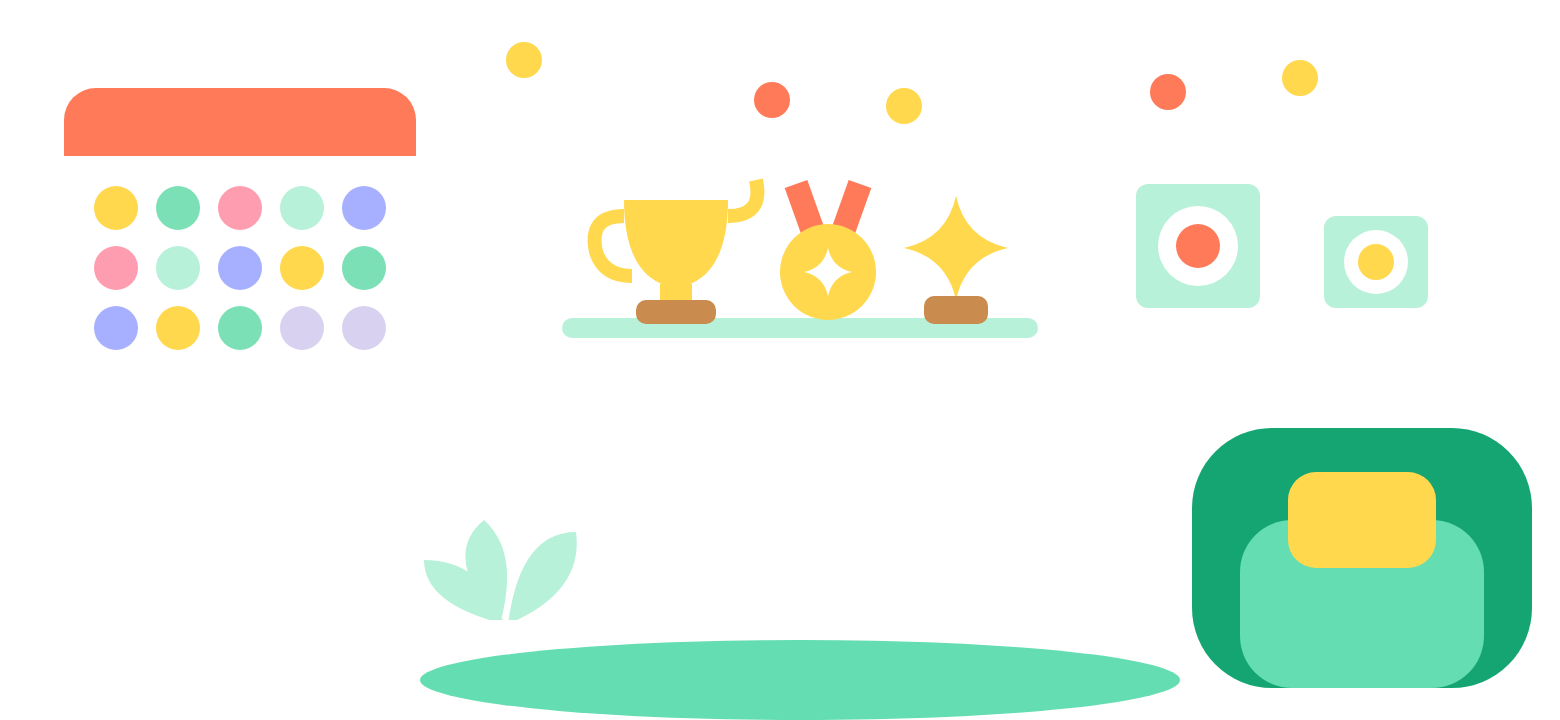
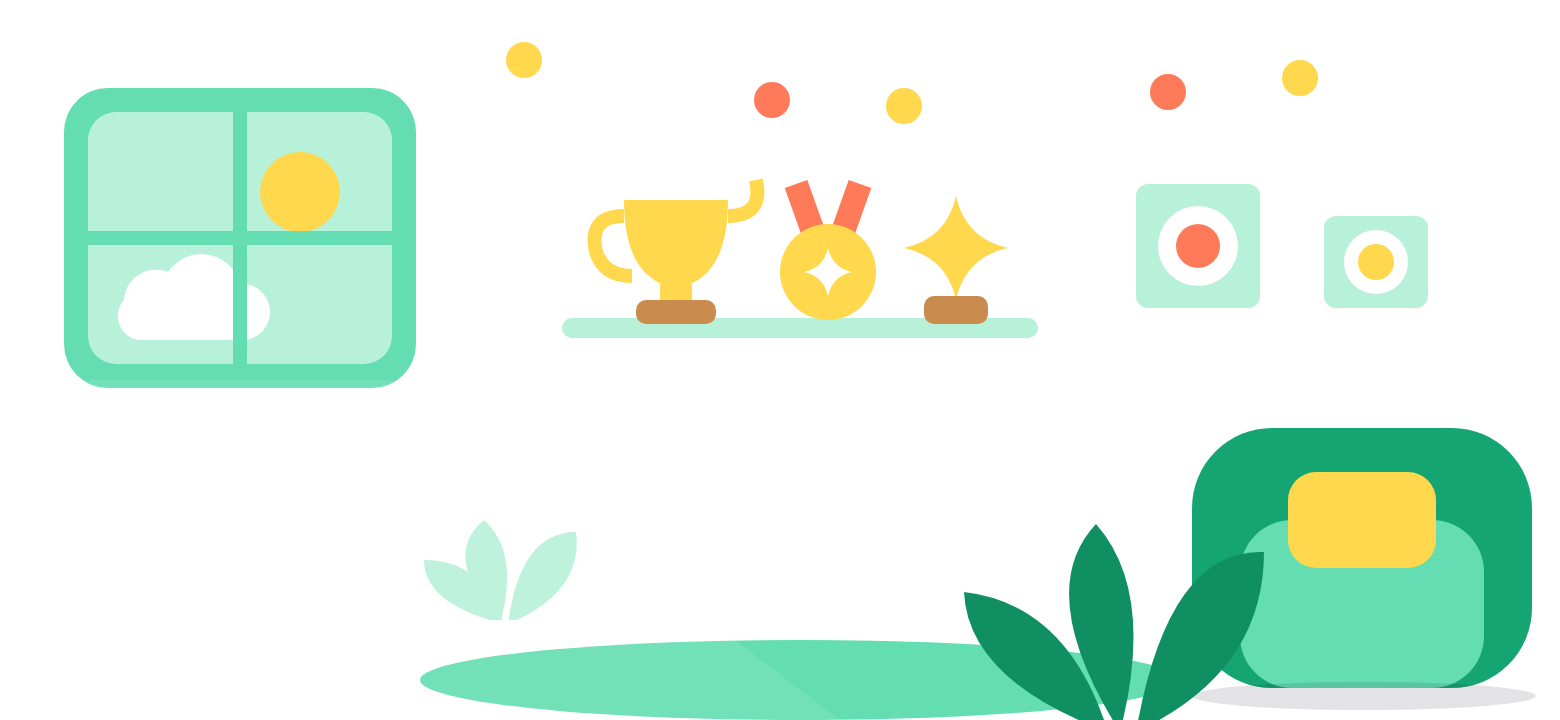
Scroll scenes away, show real cooking data on Me, add depth to scenes
Scenes made every header about 180 points taller. On screens with a scene
the whole page now scrolls, so the scene moves off the top and the content
gets the full screen.

The Me tab's calendar and trophies were only drawings. It now has a real
calendar of this month where each day a dish was finished shows that
dish as a sticker, and three badges (first dish, five dishes, a perfect
score), all computed from the runs stored on the device. The drawn
calendar in the scene is replaced by a window.

Every scene gains a floor, light from the window, shadows under furniture
and leaves in the foreground.

Claude-Session: https://claude.ai/code/session_01YRit4BDrXmu1xBXH17a6cf

Changed region(s): [[0.0308, 0.1222, 0.2769, 0.55], [0.6154, 0.7333, 0.9846, 1.0]]

diff --git a/src/app/(tabs)/me.tsx b/src/app/(tabs)/me.tsx
@@ -3,8 +3,9 @@ import { Pressable, Switch, View } from 'react-native';
 
 import { Icon } from '@/components/icon';
 import { Card, Screen, T, Thumb } from '@/components/ui';
-import { IMG, SCENE } from '@/data/images';
+import { DISH_TINT, IMG, SCENE } from '@/data/images';
 import { MENU } from '@/data/recipes';
+import { badges, cookedDays, monthGrid } from '@/lib/calendar';
 import { BETA } from '@/lib/beta';
 import { COUNTRIES } from '@/lib/money';
 import { FREE_PER_DAY } from '@/lib/quota';
@@ -29,11 +30,49 @@ function Row({ label, sub, value, onPress }: { label: string; sub?: string; valu
 export default function Me() {
   const { colors, t, pick, lang, country, theme, isDark, runs, set, signedIn, member } = useSettings();
   const avg = runs.length ? (runs.reduce((s, r) => s + r.score, 0) / runs.length).toFixed(1) : '–';
+  const now = new Date(), cooked = cookedDays(runs, now.getFullYear(), now.getMonth()), earned = badges(runs);
   return (
     <Screen tint={colors.header.me} title={t('me.title')} scene={SCENE.me}>
       <View style={{ flexDirection: 'row', gap: space.sm }}>
         <Card tone="mint" style={{ flex: 1 }}><T v="hero" tone="pastel">{runs.length}</T><T v="smallBold" tone="pastel">{t('me.cooked')}</T></Card>
         <Card tone="accent" style={{ flex: 1 }}><T v="hero" tone="pastel">{avg}</T><T v="smallBold" tone="pastel">{t('me.avg')}</T></Card>
+      </View>
+
+      {/* ปฏิทินของเดือนนี้: วันที่ทำอาหารจบเป็นสติกเกอร์รูปจานนั้น */}
+      <T v="subheading" accessibilityRole="header">{t('me.calendar')} · {now.toLocaleDateString(lang === 'th' ? 'th-TH' : 'en-US', { month: 'long', year: 'numeric' })}</T>
+      <Card style={{ gap: space.sm }}>
+        <View style={{ flexDirection: 'row' }} accessibilityElementsHidden importantForAccessibility="no-hide-descendants">
+          {t('me.week').split(' ').map((d, k) => <T key={k} v="smallBold" tone="muted" style={{ flex: 1, textAlign: 'center' }}>{d}</T>)}
+        </View>
+        {monthGrid(now.getFullYear(), now.getMonth()).map((week, w) => (
+          <View key={w} style={{ flexDirection: 'row' }}>
+            {week.map((d, k) => {
+              const run = d ? cooked.get(d) : undefined, dish = run && MENU.find((m) => m.id === run.recipe);
+              return (
+                <View key={k} style={{ flex: 1, alignItems: 'center' }} accessible={!!d} accessibilityLabel={!d ? undefined : dish ? t('me.dayCooked', { d, name: pick(dish.name), n: run!.score.toFixed(1) }) : t('me.day', { d })}>
+                  {d !== null && (
+                    <View style={{ width: 36, height: 36, borderRadius: radius.pill, alignItems: 'center', justifyContent: 'center', backgroundColor: dish ? DISH_TINT[dish.id] : colors.surface, borderWidth: d === now.getDate() ? 2 : 0, borderColor: colors.ink }}>
+                      {dish ? <Thumb source={IMG[dish.img]} size={32} /> : <T v="small" tone="muted">{d}</T>}
+                    </View>
+                  )}
+                </View>
+              );
+            })}
+          </View>
+        ))}
+      </Card>
+
+      <T v="subheading" accessibilityRole="header">{t('me.badges')}</T>
+      <View style={{ flexDirection: 'row', gap: space.sm }}>
+        {(['first', 'five', 'perfect'] as const).map((b) => (
+          <Card key={b} tone={earned[b] ? 'accent' : 'soft'} style={{ flex: 1, alignItems: 'center' }}>
+            <View style={{ width: 40, height: 40, borderRadius: radius.pill, alignItems: 'center', justifyContent: 'center', backgroundColor: earned[b] ? '#FFFFFF' : colors.line }}>
+              {earned[b] && <Icon name="check" color={colors.success} />}
+            </View>
+            <T v="smallBold" tone={earned[b] ? 'pastel' : 'muted'} style={{ textAlign: 'center' }}>{t(`me.badge.${b}`)}</T>
+            <T v="small" tone={earned[b] ? 'pastelMuted' : 'muted'}>{t(earned[b] ? 'me.earned' : 'me.locked')}</T>
+          </Card>
+        ))}
       </View>
 
       <T v="subheading" accessibilityRole="header">{t('me.recent')}</T>

diff --git a/src/components/ui.tsx b/src/components/ui.tsx
@@ -212,18 +212,24 @@ export function Mascot({ name, size }: { name: MascotName; size: number | '100%'
 export function Screen({ tint, title, subtitle, mascot, scene, onBack, backLabel, right, children, footer }: { tint: string; title: string; subtitle?: string; mascot?: number; scene?: (typeof SCENE)[keyof typeof SCENE]; onBack?: () => void; backLabel?: string; right?: ReactNode; children: ReactNode; footer?: ReactNode }) {
   const { colors, isDark } = useSettings();
   const insets = useSafeAreaInsets();
-  return (
-    <View style={{ flex: 1, backgroundColor: tint }}>
-      <View style={[s.header, { paddingTop: insets.top + space.md }]}>
-        <View style={{ flex: 1, gap: space.xs }}>
-          {onBack && <View style={{ marginBottom: space.sm }}><IconButton icon="back" label={backLabel ?? ''} onPress={onBack} onPastelBg /></View>}
-          <T v="title" style={isDark ? undefined : { color: onTint(tint) }} accessibilityRole="header">{title}</T>
-          {subtitle && <T v="smallBold" tone="muted" style={isDark ? undefined : { color: onTint(tint) }}>{subtitle}</T>}
-        </View>
-        {right}
-        {mascot && <Float><Image source={mascot} style={s.mascot} contentFit="contain" accessible={false} /></Float>}
+  const head = (
+    <View style={[s.header, { paddingTop: insets.top + space.md }]}>
+      <View style={{ flex: 1, gap: space.xs }}>
+        {onBack && <View style={{ marginBottom: space.sm }}><IconButton icon="back" label={backLabel ?? ''} onPress={onBack} onPastelBg /></View>}
+        <T v="title" style={isDark ? undefined : { color: onTint(tint) }} accessibilityRole="header">{title}</T>
+        {subtitle && <T v="smallBold" tone="muted" style={isDark ? undefined : { color: onTint(tint) }}>{subtitle}</T>}
       </View>
-      {scene && (
+      {right}
+      {mascot && <Float><Image source={mascot} style={s.mascot} contentFit="contain" accessible={false} /></Float>}
+    </View>
+  );
+  const content = { padding: space.lg, gap: space.md, paddingBottom: footer ? 120 : space.xxl };
+  const foot = footer && <View style={[s.footer, { paddingBottom: Math.max(insets.bottom, space.md) }]}>{footer}</View>;
+  // หน้าที่มีฉาก: เลื่อนทั้งหน้า ฉากจึงเลื่อนขึ้นไปพ้นจอ ไม่กินที่ของเนื้อหา
+  if (scene) return (
+    <View style={{ flex: 1, backgroundColor: tint }}>
+      <ScrollView contentContainerStyle={{ flexGrow: 1 }} keyboardShouldPersistTaps="handled">
+        {head}
         <View style={{ width: '100%', aspectRatio: scene.ratio, marginTop: -space.sm }} accessibilityElementsHidden importantForAccessibility="no-hide-descendants">
           <Image source={scene.source} style={StyleSheet.absoluteFill} contentFit="contain" accessible={false} />
           {scene.cast.map((c, k) => (
@@ -232,12 +238,23 @@ export function Screen({ tint, title, subtitle, mascot, scene, onBack, backLabel
             </View>
           ))}
         </View>
-      )}
+        <View style={[s.sheet, content, { overflow: 'visible', backgroundColor: colors.bg }]}>
+          {children}
+          {/* ปิดสีหัวจอที่จะโผล่ตอนเลื่อนเกินด้านล่าง */}
+          <View style={{ position: 'absolute', left: 0, right: 0, top: '100%', height: 800, backgroundColor: colors.bg }} />
+        </View>
+      </ScrollView>
+      {foot}
+    </View>
+  );
+  return (
+    <View style={{ flex: 1, backgroundColor: tint }}>
+      {head}
       <View style={[s.sheet, { backgroundColor: colors.bg }]}>
-        <ScrollView contentContainerStyle={{ padding: space.lg, gap: space.md, paddingBottom: footer ? 120 : space.xxl }} keyboardShouldPersistTaps="handled">
+        <ScrollView contentContainerStyle={content} keyboardShouldPersistTaps="handled">
           {children}
         </ScrollView>
-        {footer && <View style={[s.footer, { paddingBottom: Math.max(insets.bottom, space.md) }]}>{footer}</View>}
+        {foot}
       </View>
     </View>
   );

diff --git a/src/lib/i18n.ts b/src/lib/i18n.ts
@@ -33,6 +33,8 @@ const th = {
   'me.none': 'ยังไม่ได้ทำเมนูไหน ทำเสร็จแล้วคะแนนจากน้องชิมจะมาอยู่ตรงนี้', 'me.settings': 'ตั้งค่า',
   'me.lang': 'ภาษา', 'me.country': 'ประเทศและสกุลเงิน', 'me.countryHint': 'ใช้กับราคาและเมนูแนะนำ', 'me.dark': 'โหมดมืด',
   'me.darkSystem': 'ตามเครื่อง', 'me.stars': '{n} ดาว',
+  'me.calendar': 'ปฏิทินทำอาหาร', 'me.week': 'อา จ อ พ พฤ ศ ส', 'me.day': 'วันที่ {d}', 'me.dayCooked': 'วันที่ {d} ทำ{name} ได้ {n} ดาว',
+  'me.badges': 'เหรียญรางวัล', 'me.badge.first': 'จานแรก', 'me.badge.five': 'ครบ 5 จาน', 'me.badge.perfect': 'คะแนนเต็ม 5', 'me.earned': 'ได้แล้ว', 'me.locked': 'ยังไม่ได้',
   'country.TH': 'ไทย', 'country.JP': 'ญี่ปุ่น', 'country.US': 'สหรัฐฯ',
   'common.close': 'ปิด', 'common.retry': 'ลองใหม่', 'common.later': 'ไว้ทีหลัง',
   'err.offline': 'ตอนนี้ไม่มีอินเทอร์เน็ต', 'err.offlineBody': 'ทำอาหารต่อได้ตามปกติ คำถามที่เตรียมไว้และขั้นตอนทั้งหมดยังใช้ได้',
@@ -107,6 +109,8 @@ const en: typeof th = {
   'me.none': "Nothing cooked yet. Chim's scores will show up here.", 'me.settings': 'Settings',
   'me.lang': 'Language', 'me.country': 'Country and currency', 'me.countryHint': 'Used for prices and suggestions', 'me.dark': 'Dark mode',
   'me.darkSystem': 'Follow device', 'me.stars': '{n} stars',
+  'me.calendar': 'Cooking calendar', 'me.week': 'S M T W T F S', 'me.day': 'Day {d}', 'me.dayCooked': 'Day {d}: cooked {name}, {n} stars',
+  'me.badges': 'Badges', 'me.badge.first': 'First dish', 'me.badge.five': '5 dishes', 'me.badge.perfect': 'A perfect 5', 'me.earned': 'Earned', 'me.locked': 'Not yet',
   'country.TH': 'Thailand', 'country.JP': 'Japan', 'country.US': 'United States',
   'common.close': 'Close', 'common.retry': 'Try again', 'common.later': 'Maybe later',
   'err.offline': 'You are offline', 'err.offlineBody': 'Keep cooking. Prepared answers and all steps still work.',

diff --git a/src/lib/calendar.ts b/src/lib/calendar.ts
@@ -1,0 +1,25 @@
+// ปฏิทินทำอาหารและเหรียญรางวัลของแท็บฉัน คิดจากจานที่ทำจบจริงในเครื่อง (runs)
+type Cooked = { recipe: string; score: number; at: number };
+
+/** ตารางของเดือน: แต่ละแถวคือหนึ่งสัปดาห์ 7 ช่อง อาทิตย์ถึงเสาร์ ช่องนอกเดือนเป็น null (month เริ่มที่ 0) */
+export function monthGrid(year: number, month: number): (number | null)[][] {
+  const lead = new Date(year, month, 1).getDay(), days = new Date(year, month + 1, 0).getDate();
+  const cells: (number | null)[] = [...Array(lead).fill(null), ...Array.from({ length: days }, (_, k) => k + 1)];
+  while (cells.length % 7) cells.push(null);
+  return Array.from({ length: cells.length / 7 }, (_, w) => cells.slice(w * 7, w * 7 + 7));
+}
+
+/** จานที่ทำในแต่ละวันของเดือนนั้น ตามเวลาของเครื่อง ถ้าวันเดียวทำหลายจาน เก็บจานที่คะแนนดีที่สุด */
+export function cookedDays<T extends Cooked>(runs: T[], year: number, month: number): Map<number, T> {
+  const out = new Map<number, T>();
+  for (const r of runs) {
+    const d = new Date(r.at);
+    if (d.getFullYear() !== year || d.getMonth() !== month) continue;
+    const had = out.get(d.getDate());
+    if (!had || r.score > had.score) out.set(d.getDate(), r);
+  }
+  return out;
+}
+
+/** เหรียญรางวัล: จานแรก ครบ 5 จาน และเคยได้คะแนนเต็ม 5 */
+export const badges = (runs: Cooked[]) => ({ first: runs.length >= 1, five: runs.length >= 5, perfect: runs.some((r) => r.score >= 5) });

diff --git a/src/lib/calendar.test.ts b/src/lib/calendar.test.ts
@@ -1,0 +1,29 @@
+/// <reference types="node" />
+import { test } from 'node:test';
+import assert from 'node:assert/strict';
+import { badges, cookedDays, monthGrid } from './calendar.ts';
+
+test('month grid starts on the right weekday and covers every day', () => {
+  const nov = monthGrid(2026, 10); // 1 พ.ย. 2026 เป็นวันอาทิตย์ มี 30 วัน
+  assert.deepEqual(nov[0], [1, 2, 3, 4, 5, 6, 7]);
+  assert.deepEqual(nov.at(-1), [29, 30, null, null, null, null, null]);
+  const feb = monthGrid(2027, 1); // 1 ก.พ. 2027 เป็นวันจันทร์ มี 28 วัน
+  assert.deepEqual(feb[0], [null, 1, 2, 3, 4, 5, 6]);
+  assert.equal(feb.flat().filter(Boolean).length, 28);
+  assert.ok(monthGrid(2026, 7).every((w) => w.length === 7));
+});
+
+test('cooked days keep the best dish of the day and only this month', () => {
+  const at = (m: number, d: number, h = 12) => new Date(2026, m, d, h).getTime();
+  const runs = [{ recipe: 'omelet', score: 3, at: at(10, 20, 9) }, { recipe: 'kaprao', score: 4.3, at: at(10, 20, 19) }, { recipe: 'green-curry', score: 5, at: at(9, 31) }];
+  const days = cookedDays(runs, 2026, 10);
+  assert.deepEqual([...days.keys()], [20]);
+  assert.equal(days.get(20)!.recipe, 'kaprao');
+});
+
+test('badges follow the real runs', () => {
+  assert.deepEqual(badges([]), { first: false, five: false, perfect: false });
+  const run = (score: number) => ({ recipe: 'kaprao', score, at: 1 });
+  assert.deepEqual(badges([run(4)]), { first: true, five: false, perfect: false });
+  assert.deepEqual(badges([run(4), run(3), run(5), run(2), run(4)]), { first: true, five: true, perfect: true });
+});

diff --git a/assets/images/chef/src/draw.py b/assets/images/chef/src/draw.py
@@ -181,11 +181,17 @@ for n, svg in POSES.items(): open(n + '.svg', 'w').write(svg)
 
 # ฉาก: วาดเฉพาะของในฉาก ตัวละครวางทับในแอปเพื่อให้ขยับได้ (ตำแหน่งอยู่ใน SCENE ที่ src/data/images.ts) พื้นหลังโปร่งใส ใช้สีอ่อนเข้มของสีหัวจอ แล้วแต้มสีสดเฉพาะของชิ้นเล็ก
 scene = lambda w, h, body: f'<svg xmlns="http://www.w3.org/2000/svg" viewBox="0 0 {w} {h}" width="{w}" height="{h}">\n{body}\n</svg>'
+floor = lambda y, c, h=360: f'<rect x="0" y="{y}" width="780" height="{h - y}" fill="{c}"/>'
+beam = lambda x1, x2, y, fx1, fx2, h=360: f'<path d="M{x1} {y} L{x2} {y} L{fx2} {h} L{fx1} {h} Z" fill="#FFFFFF" opacity="0.1"/>'
+shade = lambda cx, cy, rx, ry=9: f'<ellipse cx="{cx}" cy="{cy}" rx="{rx}" ry="{ry}" fill="#24212B" opacity="0.13"/>'
+leaves = lambda x, c, h=360: f'<path d="M{x} {h + 6} q-44 -70 -12 -104 q30 34 12 104 z M{x + 8} {h + 6} q16 -92 64 -90 q0 60 -64 90 z M{x - 6} {h + 6} q-70 -26 -72 -70 q52 6 72 70 z" fill="{c}"/>'
 steam = lambda x, y, c='#FFFFFF': f'<path d="M{x} {y} q-10 -12 0 -24 q10 -12 0 -24 M{x+24} {y+4} q-10 -12 0 -24 q10 -12 0 -24" stroke="{c}" stroke-width="6" stroke-linecap="round" fill="none" opacity="0.9"/>'
 
 # ครัวของทีมเชฟ (หัวจอหน้าร้าน สีน้ำเงิน)
 W1, W2, W3, NAVY = '#5E6EF3', '#8493FA', '#B7C0FF', '#2A2F8C'
 home = scene(780, 360, ''.join([
+  floor(296, '#1AAE7B'),
+  floor(292, '#3F4DDC'),
   # หน้าต่าง
   f'<rect x="28" y="30" width="156" height="128" rx="22" fill="{W2}"/><rect x="40" y="42" width="132" height="104" rx="14" fill="{W3}"/>',
   f'<circle cx="132" cy="80" r="20" fill="{YEL}"/><path d="M58 124 a16 16 0 0 1 22 -14 a20 20 0 0 1 36 6 a14 14 0 0 1 2 28 h-52 a12 12 0 0 1 -8 -20 z" fill="#FFFFFF"/>',
@@ -212,6 +218,7 @@ home = scene(780, 360, ''.join([
   f'<path d="M524 168 h12 M624 168 h12" stroke="{CORAL}" stroke-width="10" stroke-linecap="round"/>',
   # หม้อหุงข้าว
   f'<rect x="672" y="140" width="84" height="60" rx="22" fill="#FFFFFF"/><rect x="672" y="156" width="84" height="8" fill="{HAT_D}"/><circle cx="714" cy="182" r="6" fill="{CORAL}"/>',
+  beam(44, 170, 150, 150, 372) + shade(498, 352, 270, 8) + leaves(742, '#3643C9'),
 ]))
 open('scene-home.svg', 'w').write(home)
 
@@ -219,6 +226,7 @@ open('scene-home.svg', 'w').write(home)
 O1, O2 = '#EE7F22', '#FFC98A'
 crate = lambda x, y, w: f'<rect x="{x}" y="{y}" width="{w}" height="78" rx="10" fill="{STRAW}"/><path d="M{x+6} {y+26} h{w-12} M{x+6} {y+52} h{w-12}" stroke="{STRAW_D}" stroke-width="6" stroke-linecap="round"/>'
 market = scene(780, 300, ''.join([
+  floor(250, '#F58A2C', 300),
   # เสากับกันสาดลายทาง
   f'<path d="M292 60 v230 M748 60 v230" stroke="{O1}" stroke-width="12" stroke-linecap="round"/>',
   ''.join(f'<path d="M{262 + i * 86} 22 h86 v52 a43 26 0 0 1 -86 0 z" fill="{"#FFFFFF" if i % 2 else CORAL}"/>' for i in range(6)),
@@ -233,6 +241,7 @@ market = scene(780, 300, ''.join([
   # ป้ายราคา
   ''.join(f'<rect x="{x}" y="238" width="44" height="26" rx="8" fill="#FFFFFF"/><path d="M{x+10} 251 h24" stroke="{O1}" stroke-width="5" stroke-linecap="round"/>' for x in (354, 500, 646)),
   star(248, 120, 13, '#FFFFFF'),
+  shade(520, 292, 240, 7) + leaves(748, '#E0741A', 300),
 ]))
 open('scene-plan.svg', 'w').write(market)
 
@@ -246,6 +255,7 @@ sparkle = lambda x, y, s=10, c='#FFFFFF': star(x, y, s, c)
 P1, P2, P3 = '#EE5075', '#FF93AB', '#FFC6D3'
 book = lambda x, y, w, h, c, tilt=0: f'<rect x="{x}" y="{y - h}" width="{w}" height="{h}" rx="5" fill="{c}" transform="rotate({tilt} {x + w / 2} {y})"/>'
 recipes = scene(780, 360, ''.join([
+  floor(296, '#F0557A'),
   # ธงราว
   f'<path d="M250 26 Q420 70 590 26" stroke="#FFFFFF" stroke-width="4" fill="none"/>',
   ''.join(f'<path d="M{x} {y} l22 4 l-14 26 z" fill="{c}"/>' for x, y, c in [(268, 31, YEL), (312, 40, '#FFFFFF'), (358, 46, '#7BE0B5'), (404, 49, YEL), (450, 47, '#FFFFFF'), (496, 42, '#7BE0B5'), (540, 33, YEL)]),
@@ -267,12 +277,14 @@ recipes = scene(780, 360, ''.join([
   # พรมกับหนังสือสูตรเล่มใหญ่
   f'<ellipse cx="410" cy="338" rx="186" ry="22" fill="{P2}"/>',
   sparkle(586, 190, 10) + sparkle(248, 214, 8) + sparkle(566, 232, 6),
+  shade(122, 352, 100, 7) + shade(684, 352, 76, 7) + leaves(566, '#D94068'),
 ]))
 open('scene-recipes.svg', 'w').write(recipes)
 
 # หน้าเตา (แท็บทำอาหาร สีส้ม): ผนังกระเบื้อง เครื่องดูดควัน เตากับเตาอบ หม้อ กา โหลใส่ตะหลิว นาฬิกา
 O3 = '#FFE1BD'
 stove = scene(780, 360, ''.join([
+  floor(312, '#F58A2C'),
   # กระเบื้องผนัง
   ''.join(f'<rect x="{236 + c * 68}" y="{92 + r * 52}" width="56" height="40" rx="8" fill="{O2}" opacity="{0.55 if (r + c) % 2 else 0.9}"/>' for r in range(2) for c in range(8)),
   # เครื่องดูดควัน
@@ -293,18 +305,20 @@ stove = scene(780, 360, ''.join([
   # โหลใส่ตะหลิว
   f'<path d="M742 150 v-50 M756 152 v-62 M768 150 v-44" stroke="{WOOD}" stroke-width="7" stroke-linecap="round"/><ellipse cx="756" cy="84" rx="11" ry="15" fill="{WOOD}"/><rect x="730" y="150" width="50" height="64" rx="12" fill="#FFFFFF"/><path d="M730 172 h50" stroke="{HAT_D}" stroke-width="5"/>',
   sparkle(208, 120, 9) + sparkle(596, 120, 7),
+  beam(60, 132, 128, 20, 190) + shade(112, 350, 86, 7) + leaves(4, '#E0741A'),
 ]))
 open('scene-cook.svg', 'w').write(stove)
 
-# มุมรางวัล (แท็บฉัน สีเขียว): ชั้นถ้วยรางวัล ปฏิทินสติกเกอร์ ไฟประดับ รูปจานที่เคยทำ เก้าอี้นวม พรม
+# มุมรางวัล (แท็บฉัน สีเขียว): หน้าต่าง ชั้นถ้วยรางวัล ไฟประดับ รูปจานที่เคยทำ เก้าอี้นวม พรม
 G1, G2, G3 = '#14A572', '#63DDB1', '#B8F1DA'
 me = scene(780, 360, ''.join([
   # ไฟประดับ
   f'<path d="M230 20 Q400 74 780 22" stroke="#FFFFFF" stroke-width="4" fill="none"/>',
   ''.join(f'<circle cx="{x}" cy="{y}" r="9" fill="{c}"/>' for x, y, c in [(262, 30, YEL), (322, 42, '#FFFFFF'), (386, 50, CORAL), (452, 53, YEL), (518, 51, '#FFFFFF'), (584, 46, CORAL), (650, 39, YEL), (716, 31, '#FFFFFF')]),
-  # ปฏิทินสติกเกอร์ของจานที่ทำ
-  f'<rect x="32" y="44" width="176" height="150" rx="16" fill="#FFFFFF"/><rect x="32" y="44" width="176" height="34" rx="16" fill="{CORAL}"/><rect x="32" y="62" width="176" height="16" fill="{CORAL}"/>',
-  ''.join(f'<circle cx="{58 + c * 31}" cy="{104 + r * 30}" r="11" fill="{[YEL, "#7BE0B5", PINK, G3, "#A7B0FF"][(r * 2 + c) % 5] if (r, c) not in ((2, 3), (2, 4)) else HAT_D}"/>' for r in range(3) for c in range(5)),
+  # หน้าต่าง
+  f'<rect x="32" y="44" width="176" height="150" rx="22" fill="{G2}"/><rect x="44" y="56" width="152" height="126" rx="14" fill="{G3}"/>',
+  f'<circle cx="150" cy="96" r="20" fill="{YEL}"/><path d="M62 150 a16 16 0 0 1 22 -14 a20 20 0 0 1 36 6 a14 14 0 0 1 2 28 h-52 a12 12 0 0 1 -8 -20 z" fill="#FFFFFF"/>',
+  f'<path d="M120 56 v126 M44 119 h152" stroke="{G2}" stroke-width="7"/>',
   # ชั้นถ้วยรางวัล
   f'<path d="M286 164 h228" stroke="{G3}" stroke-width="10" stroke-linecap="round"/>',
   f'<path d="M312 100 h52 q0 40 -26 44 q-26 -4 -26 -44 z" fill="{YEL}"/><path d="M312 108 q-18 0 -14 18 q4 12 18 12 M364 108 q18 0 14 -18" stroke="{YEL}" stroke-width="7" fill="none"/><rect x="330" y="142" width="16" height="10" fill="{YEL}"/><rect x="318" y="150" width="40" height="12" rx="5" fill="{WOOD}"/>',
@@ -319,6 +333,7 @@ me = scene(780, 360, ''.join([
   # พรม
   f'<ellipse cx="400" cy="340" rx="190" ry="20" fill="{G2}"/>',
   sparkle(536, 208, 9) + sparkle(246, 222, 7) + sparkle(566, 252, 6),
+  beam(44, 196, 190, 110, 420) + shade(682, 348, 86, 7) + leaves(560, '#0F8F62'),
 ]))
 open('scene-me.svg', 'w').write(me)
 

diff --git a/README.md b/README.md
@@ -90,7 +90,9 @@ select created_at, kind, name, contact, paid_note, source from waitlist order by
 
 ท่าทางมีการเอนตัว เอียงคอ ก้าวขา กระโดด และนั่ง (พารามิเตอร์ `lean` `tilt` `feet` `lift` `drop` ของ `person` ในไฟล์วาด) ทุกท่าใช้หน้าเดียวกัน: ตาจุด ปากขีด
 
-ฉาก: ทุกแท็บมีฉากใต้ชื่อหน้าจอ หน้าร้านเป็นครัวของทีมเชฟ แท็บสูตรเป็นห้องอ่านสูตร แท็บทำอาหารเป็นหน้าเตา แท็บฉันเป็นมุมรางวัล และหน้าแผนวันอาทิตย์เป็นแผงตลาด ภาพฉากมีแต่ของในฉาก ตัวละครวางทับทีละตัวตามตำแหน่งใน `SCENE` (ไฟล์เดียวกัน) เพื่อให้ขยับได้ หัวข้อใช้ฟอนต์ Mitr
+แท็บฉันมีปฏิทินทำอาหารของเดือนนี้ (วันที่ทำจบจานเป็นสติกเกอร์รูปจานนั้น) และเหรียญรางวัล 3 เหรียญ คิดจากจานที่ทำจบจริงในเครื่อง (`src/lib/calendar.ts`)
+
+ฉาก: ทุกแท็บมีฉากใต้ชื่อหน้าจอ และเลื่อนขึ้นไปพร้อมเนื้อหา จึงไม่กินที่ ฉากมีพื้นห้อง แสงจากหน้าต่าง เงาใต้ของ และใบไม้ด้านหน้า หน้าร้านเป็นครัวของทีมเชฟ แท็บสูตรเป็นห้องอ่านสูตร แท็บทำอาหารเป็นหน้าเตา แท็บฉันเป็นมุมรางวัล และหน้าแผนวันอาทิตย์เป็นแผงตลาด ภาพฉากมีแต่ของในฉาก ตัวละครวางทับทีละตัวตามตำแหน่งใน `SCENE` (ไฟล์เดียวกัน) เพื่อให้ขยับได้ หัวข้อใช้ฟอนต์ Mitr
 
 การขยับ: `Float` ใน `src/components/ui.tsx` มี 4 แบบ คือลอยขึ้นลง โยกซ้ายขวา สั่นตกใจ และกระโดดพร้อมเงา ตัวละครทุกจุดในแอปใช้แบบใดแบบหนึ่ง และหยุดนิ่งเมื่อเครื่องตั้งค่าลดการเคลื่อนไหว ทุกท่าแยกเป็นหลายชั้น คือภาพตัว (`<ท่า>-body`) กับส่วนที่ขยับเอง เช่น `cook-wok` `shop-legL` `sip-spoon` แล้ว `Mascot` ซ้อนชั้นตาม `LAYERS` ให้ดูเป็นร่างเดียว: ทั้งตัวขยับไปด้วยกันก่อน (หายใจ โยกตัวตอนเดิน โยกช้าๆ ตอนคิด) หัวเป็นชั้นของตัวเอง (`<ท่า>-head`) เอียงหรือเด้งรอบคอ และตาเป็นอีกชั้น (`<ท่า>-eyes`) กะพริบเป็นระยะ แล้วแขนขาหมุนรอบข้อต่อของตัวเอง (หัวไหล่ สะโพก) ไม่เลื่อนทั้งท่อน ชั้นกำหนดในตาราง `SPLIT` ท้าย draw.py ซึ่งพิมพ์จุดหมุนของข้อต่อออกมาตอนรันด้วย
 
